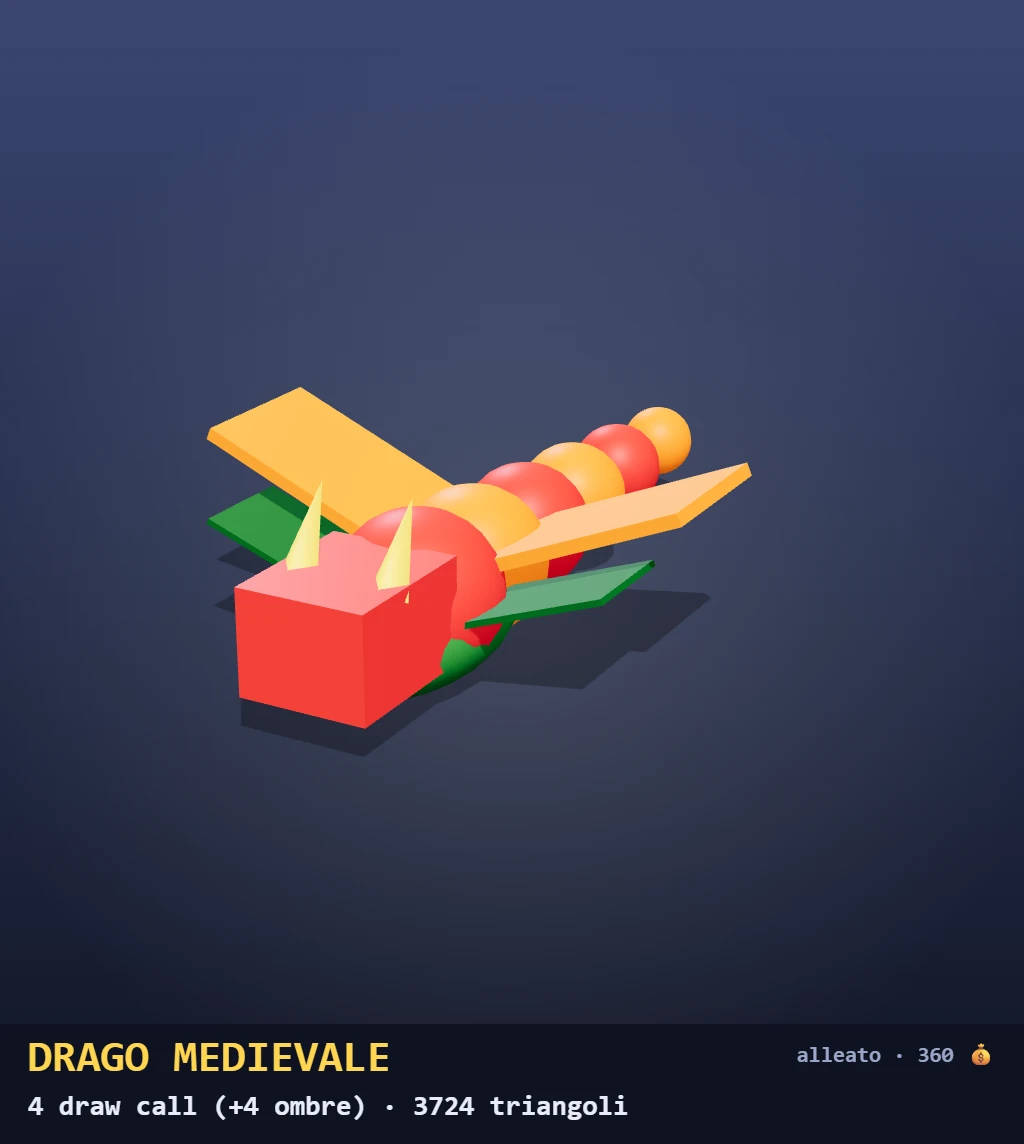
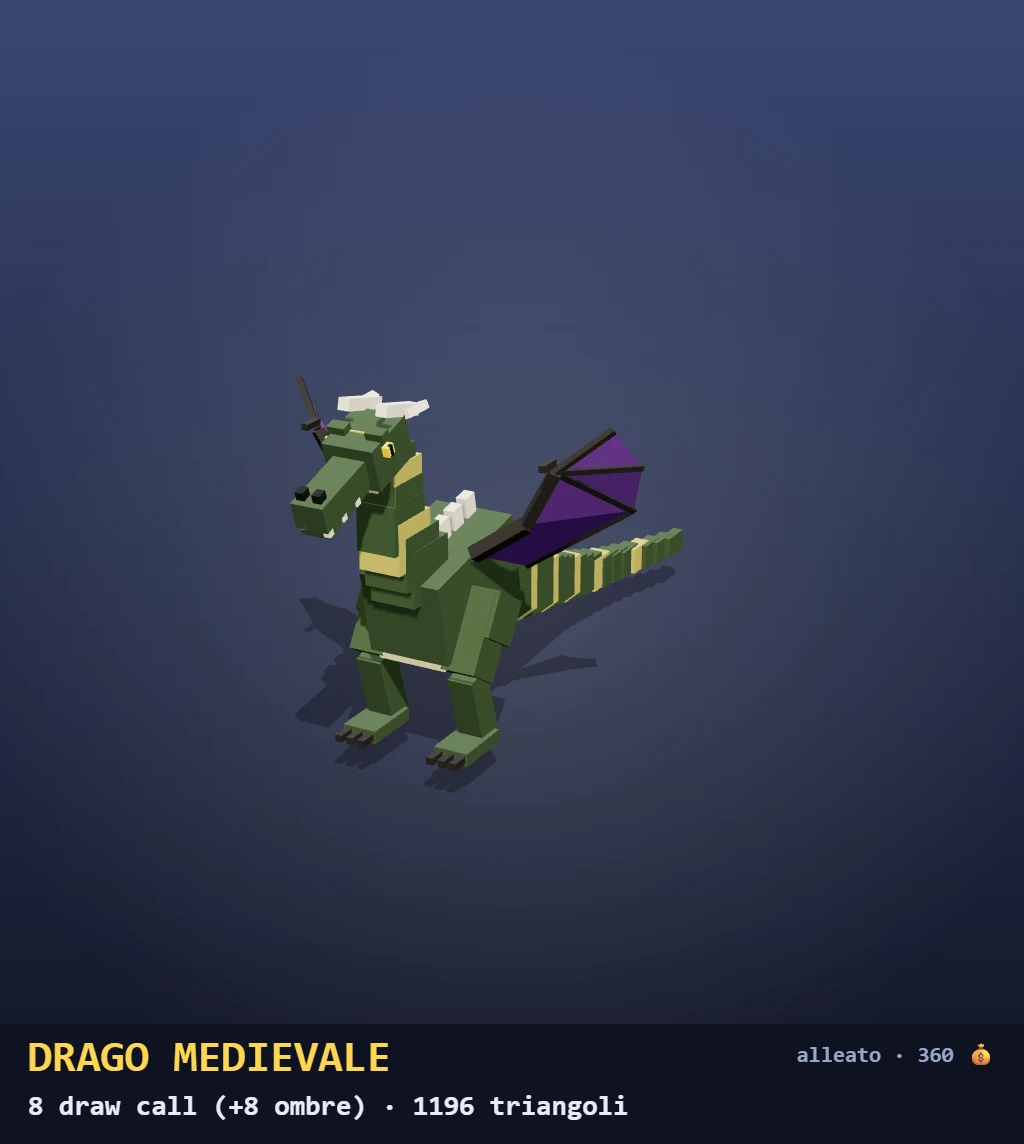
Difendi la birra: nuovo drago medievale a terra (dal bestiario), leggero: 8 draw call, fiato viola

diff --git a/index.html b/index.html
@@ -5308,12 +5308,13 @@ function allyUpdate(dt){ const host=!NETON();
           if(a.bq>0){ a.bT-=dt; if(a.bT<=0){ a.bT=.09; a.bq--; const b=spawn(K.shot,a.x+Math.sin(a.ang)*.5,a.z+Math.cos(a.ang)*.5,a.ang+(K.burst?(Math.random()-.5)*.1:0),a.owner); b.special=true; b.dk=mk_; SFX.play(K.burst?'pew':'throw'); } }
           if(K.melee&&d<K.range+tR(foe)&&a.cd<=0){ a.cd=K.melee[1]; spHit(a.owner,foe,K.melee[0]*mk_,{push:.4}); fxAdd(foe.x,foe.z,.5,0xffffff,.7,.15); SFX.play('punch'); }
           if(K.breath&&d<K.range+tR(foe)&&a.cd<=0){ a.cd=K.breath[1]; for(const t of spTargets(a.owner)){ const dx=t.x-a.x, dz=t.z-a.z, dd=Math.hypot(dx,dz); if(dd>K.range+tR(t)) continue; let da=Math.atan2(dx,dz)-a.ang; da=Math.atan2(Math.sin(da),Math.cos(da)); if(Math.abs(da)<.7) spHit(a.owner,t,K.breath[0]*mk_,{burn:1.5}); }
-            for(let q=1;q<=3;q++) fxAdd(a.x+Math.sin(a.ang)*q,a.z+Math.cos(a.ang)*q,.5+q*.15,0xff6d00,1.2,.25); SFX.play('flame'); }
+            a.brT=.7; for(let q=1;q<=3;q++) fxAdd(a.x+Math.sin(a.ang)*q,a.z+Math.cos(a.ang)*q,.55+q*.15,0xb55cff,.9,.25); SFX.play('flame'); }   // fiato viola del drago
           if(a.kind==='cobra'&&d<K.range&&a.cd<=0){ a.cd=K.cd; for(let k=-2;k<=2;k++){ const b=spawn('venom',a.x,a.z,a.ang+k*.16,a.owner); b.special=true; } SFX.play('hiss'); } }
         else if(Math.hypot(a.owner.x-a.x,a.owner.z-a.z)>2.5){ const dx=a.owner.x-a.x, dz=a.owner.z-a.z, d=Math.hypot(dx,dz); mx=dx/d; mz=dz/d; a.ang=Math.atan2(dx,dz); }
         if(mx||mz){ const st=K.spd*dt; if(K.fly){ a.x=Math.max(.5,Math.min(W-.5,a.x+mx*st)); a.z=Math.max(.5,Math.min(H-.5,a.z+mz*st)); } else [a.x,a.z]=slideMove(a.x,a.z,mx*st,mz*st,K.r); a.mv=1; } else a.mv=0; }
     else { a.x+=(a.tx-a.x)*Math.min(1,dt*12); a.z+=(a.tz-a.z)*Math.min(1,dt*12); }
-    a.m.position.set(a.x,a.kind==='cobra'?.4+Math.sin(a.t*3)*.15:a.mv||a.kind==='dog'?Math.abs(Math.sin(a.t*(a.kind==='dog'?18:9)))*.08:0,a.z); a.m.rotation.y=a.ang;
+    if(a.kind==='dragon') dragonAnim(a,dt);
+    a.m.position.set(a.x,a.kind==='cobra'?.4+Math.sin(a.t*3)*.15:a.kind==='dragon'?0:a.mv||a.kind==='dog'?Math.abs(Math.sin(a.t*(a.kind==='dog'?18:9)))*.08:0,a.z); a.m.rotation.y=a.ang;
     if(a.kind==='cobra'&&a.m.userData.b){ const B=a.m.userData.b; if(B.userData&&B.userData.P&&B.userData.P.wings) B.userData.P.wings.forEach((w,k)=>w.rotation.z=(k?1:-1)*Math.sin(a.t*12)*.5); } } }
 // Lino va verso la birra barcollando e la riempie (5 vita al secondo) finche' dura
 function linoTick(a,dt,host){ const c=TD.core, B=a.m.userData.b;
@@ -5663,7 +5664,7 @@ const BOT_K={
   knight:{n:'Cavaliere',d:'Armatura pesante e spadone: tiene la linea.',cost:120,k:'knight',n_:1},
   mafia:{n:'Mafiosi italo-americani',d:'Due picciotti col mitra a tamburo. Raffiche corte.',cost:170,k:'mafia',n_:2},
   wizard:{n:'Mago sul cinghiale',d:'Corre in giro sul suo cinghiale e lancia sfere magiche che esplodono.',cost:210,k:'wizard',n_:1},
-  dragon:{n:'Drago medievale',d:'Vola sopra a tutto e brucia i nemici col fiato. Costa caro.',cost:360,k:'dragon',n_:1},
+  dragon:{n:'Drago medievale',d:'Cammina a terra e brucia i nemici col fiato viola. Robusto, ma i nemici lo possono colpire. Costa caro.',cost:360,k:'dragon',n_:1},
   lino:{n:'Lino Sassanelli',d:'Ubriaco fradicio: va alla birra e la riempie di 5 vita al secondo per 60 secondi. I nemici lo possono colpire!',cost:200,k:'lino',n_:1},
 };
 // prezzo dei bot: +50% se chi compra ha gia' in campo, vivo, un bot dello stesso tipo (si conta per ogni tipo di bot, non sul totale)
@@ -5684,7 +5685,7 @@ Object.assign(ALLY_K,{
   knight:{hp:230,spd:2.6,r:.38,life:1e9,range:1.2,melee:[24,.9],mk:()=>knightMesh()},
   mafia:{hp:95,spd:2.8,r:.32,life:1e9,range:6,cd:1.3,burst:6,shot:'tommy',mk:()=>mafiaMesh()},
   wizard:{hp:160,spd:4.2,r:.42,life:1e9,range:6.5,cd:1.3,shot:'magic',mk:()=>wizardMesh()},
-  dragon:{hp:330,spd:3.2,r:.6,life:1e9,range:3,fly:1,breath:[12,.3],mk:()=>dragonMesh2()},
+  dragon:{hp:330,spd:3.2,r:.5,life:1e9,range:3,breath:[12,.3],mk:()=>dragonMesh2()},   // a terra: aggira i muri e i nemici lo possono colpire
   lino:{hp:160,spd:1.7,r:.34,life:60,range:0,heal:5,mk:()=>linoMesh()},
 });
 // --- modelli ---
@@ -5709,8 +5710,57 @@ function linoMesh(){ const g=new THREE.Group(), SK=0xe8b08a, B=new THREE.Group()
   [-1,1].forEach(s=>bx(B,0x111111,.05,.03,.02,s*.07,1.08,.125,.5)); bx(B,0x6d4c41,.12,.03,.02,0,.95,.125,.6);
   const bt=new THREE.Group(); bt.position.set(.3,.62,.12); B.add(bt); cy(bt,0x2e7d32,.06,.06,.26,0,0,0,.2); cy(bt,0x2e7d32,.025,.05,.12,0,.18,0,.2); bx(bt,0xfafafa,.125,.08,.125,0,-.02,0,.6);
   shadowize(g); g.scale.setScalar(1.15); return g; }
-function dragonMesh2(){ const g=new THREE.Group(), R=0x2e7d32; const d=makeDragon(); d.scale.setScalar(1.7); d.position.y=.3; g.add(d);
-  ell(g,R,.5,.35,.9,0,1.3,0,.6); [-1,1].forEach(s=>{ const w=bx(g,0x1b5e20,1.2,.04,.7,s*.8,1.6,-.1,.6); w.rotation.z=s*.35; }); shadowize(g); return g; }
+// Drago medievale (dal "Bestiario medievale"): cammina a terra (non vola), coda appiattita da varano, collo lungo, ali piccole da pipistrello, fiato viola.
+// Costruito a misura del file originale (unita' grandi) e rimpicciolito con DRG_S. Prestazioni: le parti ferme si fondono per gruppo
+// (corpo, 2 zampe, 2 ali, testa, mascella = una draw call ciascuno), collo e coda sono un'unica InstancedMesh di 33 cubi (una draw call). Niente luci.
+const DRG_S=.12, DRG_NN=9, DRG_TN=24, DRG_C={sk:0x3e4d2e,bl:0xcdbd8a,horn:0xd7ccb0,claw:0x2b2620,band:0xa89a4a,bone:0x2e2a25,mem:0x6a3f80};
+const DRG_NB=[[0,5.7,2],[0,7.2,3],[0,8.8,3.1],[0,9.9,3.9]];
+const DRG_IM=new THREE.MeshStandardMaterial({color:0xffffff,roughness:.8,metalness:.05});
+// membrana dell'ala: triangoli sulle due facce (cosi' si fonde col resto dell'ala, niente materiale a doppia faccia)
+const DRG_MEM=(()=>{ const V=(x,y,z)=>new THREE.Vector3(x,y,z), A=V(0,0,0),B=V(1.6,.9,-.4),C=V(2.8,2.6,-.2),F=[V(4.2,3.6,-1.2),V(4.4,2.2,-2.4),V(3.6,.6,-3.2)],H=V(.2,-1.2,-2.6);
+  const T=[C,F[0],F[1],C,F[1],F[2],C,F[2],B,B,F[2],H,B,H,A], pa=[]; T.forEach(v=>pa.push(v.x,v.y,v.z)); for(let i=T.length-3;i>=0;i-=3) [T[i],T[i+2],T[i+1]].forEach(v=>pa.push(v.x,v.y,v.z));
+  const g=new THREE.BufferGeometry(); g.setAttribute('position',new THREE.Float32BufferAttribute(pa,3)); g.computeVertexNormals(); return {g,A,B,C,F,H}; })();
+function dragonMesh2(){ const g=new THREE.Group(), d=new THREE.Group(), C=DRG_C, b=(p,c,w,h,dd,x,y,z)=>bx(p,c,w,h,dd,x,y,z,.8);
+  d.scale.setScalar(DRG_S); d.position.z=3*DRG_S; g.add(d);
+  const tg=new THREE.Group(); tg.position.set(0,4.6,.2); tg.rotation.x=.2; d.add(tg);
+  b(tg,C.sk,2.6,2.6,4.4,0,0,0); b(tg,C.bl,2.2,.5,4,0,-1.35,.1); for(let i=0;i<6;i++) b(tg,C.horn,.35,.9,.5,0,1.5,-1.8+i*.75);
+  // zampe: coscia, ginocchio e piede formano un pezzo unico (si muove solo dall'anca)
+  const legs=[-1,1].map(s=>{ const hp=new THREE.Group(); hp.position.set(s*1.55,4.5,.2); hp.rotation.x=-.55; d.add(hp);
+    b(hp,C.sk,1.1,2.5,1.3,0,-1.2,0); b(hp,C.sk,1.4,1.4,1.5,0,-.6,-.1);
+    const kn=new THREE.Group(); kn.userData.rigid=1; kn.position.y=-2.4; kn.rotation.x=.85; hp.add(kn); b(kn,C.sk,.8,2.3,.9,0,-1.1,0);
+    const ft=new THREE.Group(); ft.userData.rigid=1; ft.position.y=-2.2; ft.rotation.x=-.3; kn.add(ft); b(ft,C.sk,1.1,.4,1.9,0,-.1,.7); for(const c of [-.38,0,.38]) b(ft,C.claw,.22,.22,.8,c,-.1,1.8);
+    return hp; });
+  const M=DRG_MEM, wings=[-1,1].map(s=>{ const w=new THREE.Group(); w.position.set(s*1.4,5.9,.8); if(s<0) w.scale.x=-1; w.userData.s=s; d.add(w);
+    const bone=(p,q,th)=>{ const dv=new THREE.Vector3().subVectors(q,p), m=b(w,C.bone,th,th,dv.length(),0,0,0); m.position.copy(p).add(q).multiplyScalar(.5); m.quaternion.setFromUnitVectors(new THREE.Vector3(0,0,1),dv.normalize()); };
+    bone(M.A,M.B,.4); bone(M.B,M.C,.32); M.F.forEach(f=>bone(M.C,f,.18)); bone(M.F[2],M.H,.14);
+    w.add(new THREE.Mesh(M.g,cm(C.mem,.8))); b(w,C.claw,.2,.2,.7,M.C.x,M.C.y+.3,M.C.z+.4); return w; });
+  const head=new THREE.Group(); d.add(head);
+  b(head,C.sk,1.6,1.3,1.8,0,0,.2); b(head,C.sk,1,.8,2.4,0,-.1,2.1); b(head,C.bl,.8,.5,1.1,0,-.8,.2);
+  for(const s of [-1,1]){ b(head,0xf2c61f,.3,.3,.3,s*.85,.35,.5); b(head,0x111111,.1,.34,.1,s*.98,.35,.5); b(head,0x1a1a14,.25,.25,.3,s*.26,.46,3); b(head,C.horn,.2,.2,.2,s*.35,-.5,.9);
+    const h=b(head,C.horn,.35,.35,1.7,s*.6,.8,-.7); h.rotation.x=-.55; const h2=b(head,C.horn,.25,.25,1,s*.8,.5,-1.2); h2.rotation.set(-.3,0,s*.4); b(head,C.sk,.55,.25,.35,s*.6,.75,.45); }
+  for(let i=0;i<6;i++) b(head,C.horn,.2,.2,.2,i%2?.4:-.4,-.58,1.4+i*.35);
+  const jaw=new THREE.Group(); jaw.position.set(0,-.45,.2); head.add(jaw); b(jaw,C.sk,.9,.3,2.8,0,0,1.6); for(let i=0;i<5;i++) b(jaw,0xf0ead8,.15,.2,.15,i%2?.3:-.3,.2,1+i*.5);
+  // collo (9 cubi) + coda (24 cubi): una sola InstancedMesh, con le fasce chiare ogni tanto
+  const nt=dyn(new THREE.InstancedMesh(boxGeo,DRG_IM,DRG_NN+DRG_TN)), col=new THREE.Color(); nt.frustumCulled=false;
+  for(let i=0;i<DRG_NN;i++) nt.setColorAt(i,col.setHex(i%3===2?C.band:C.sk)); for(let i=0;i<DRG_TN;i++) nt.setColorAt(DRG_NN+i,col.setHex(i%4<1?C.band:C.sk)); d.add(nt);
+  g.userData.dr={d,tg,legs,wings,head,jaw,nt,nc:new THREE.CatmullRomCurve3(DRG_NB.map(v=>new THREE.Vector3(...v)))};
+  dragonPose(g.userData.dr,0,0,0); shadowize(g); return g; }
+const _dm=new THREE.Matrix4(), _dq=new THREE.Quaternion(), _dp=new THREE.Vector3(), _ds=new THREE.Vector3();
+// posa del drago: t = tempo, wk = quanto cammina (0-1), ff = quanto soffia (0-1)
+function dragonPose(U,t,wk,ff){
+  U.d.position.y=Math.sin(t*1.8)*.06*DRG_S+Math.abs(Math.sin(t*7))*.2*DRG_S*wk; U.d.rotation.z=Math.sin(t*7)*.04*wk; U.tg.rotation.x=.2-ff*.08;
+  U.legs.forEach((hp,k)=>{ hp.rotation.x=-.55+Math.sin(t*7+k*Math.PI)*.45*wk; });
+  U.nc.points.forEach((p,j)=>{ const v=DRG_NB[j]; p.set(v[0]+Math.sin(t*.8+j)*.2*j/3,v[1]+(j>1?ff*.5:0)+Math.sin(t*1.8+j)*.05,v[2]+(j>1?ff*.7:0)); });
+  for(let i=0;i<DRG_NN;i++){ const s=i/(DRG_NN-1), r=1.7-s*.65; U.nc.getPoint(s,_dp); U.nt.setMatrixAt(i,_dm.compose(_dp,_dq,_ds.set(r*.85,r,r*1.1))); }
+  U.nc.getPoint(1,_dp); U.head.position.copy(_dp); U.head.rotation.set(.32-ff*.55,Math.sin(t*.7)*.15,0); U.jaw.rotation.x=.06+ff*.5+Math.sin(t*2)*.01;
+  for(let i=0;i<DRG_TN;i++){ const s=(i+.5)/DRG_TN, w=1.3*(1-s*.85)+.15, h=1.9*(1-s*.78)+.25;
+    _dp.set(Math.sin(t*(1.3+wk)-s*3.5)*1.5*s,Math.max(h/2,.35+3.6*Math.pow(1-s,1.6)+Math.max(0,s-.7)*1.5),-1.8-s*13.5); U.nt.setMatrixAt(DRG_NN+i,_dm.compose(_dp,_dq,_ds.set(w,h,1.1))); }
+  U.nt.instanceMatrix.needsUpdate=true;
+  U.wings.forEach(w=>{ w.rotation.z=w.userData.s*(.1+Math.sin(t*2.2)*.1+ff*.3); });
+}
+function dragonAnim(a,dt){ const U=a.m.userData.dr; if(!U) return;
+  a.wk=(a.wk||0)+((a.mv?1:0)-(a.wk||0))*Math.min(1,dt*6); if(a.brT>0) a.brT-=dt;
+  a.ff=(a.ff||0)+((a.brT>0?1:0)-(a.ff||0))*Math.min(1,dt*10); dragonPose(U,a.t,a.wk,a.ff); }
 function buildMesh(kind,lvl){ const K=BUILD_K[kind], g=new THREE.Group();
   if(kind==='tur'||kind==='mount'){ const t=tdTurretMesh(kind==='mount'?2:1); g.add(t); g.userData.head=t.userData.head; g.userData.bar=t.userData.bar;
     if(kind==='mount'){ t.position.y=.55; cy(g,0x6d4c41,.6,.7,.55,0,.27,0,.9); bx(g,0x8d6e63,.12,.55,.12,.45,.27,.45,.9); bx(g,0x8d6e63,.12,.55,.12,-.45,.27,-.45,.9); for(let k=0;k<4;k++) bx(g,0x5d4037,.32,.05,.06,.62,.1+k*.14,0,.9); g.userData.bar.position.y=2; } }

diff --git a/Grafiche/README.md b/Grafiche/README.md
@@ -69,7 +69,7 @@ Le misure sono per un singolo modello: i polli arrivano in 4 e i mafiosi in 2.
 | <img src="Acquistabili/cavaliere.webp" width="120"> | **Cavaliere** | Alleato | 4 | 4 | 120 |
 | <img src="Acquistabili/mafiosi-italo-americani.webp" width="120"> | **Mafiosi italo-americani** | Alleato (×2) | 4 | 4 | 184 |
 | <img src="Acquistabili/mago-sul-cinghiale.webp" width="120"> | **Mago sul cinghiale** | Alleato | 7 | 7 | 1148 |
-| <img src="Acquistabili/drago-medievale.webp" width="120"> | **Drago medievale** | Alleato | 4 | 4 | 3724 |
+| <img src="Acquistabili/drago-medievale.webp" width="120"> | **Drago medievale** | Alleato | 8 | 8 | 1196 |
 | <img src="Acquistabili/lino-sassanelli.webp" width="120"> | **Lino Sassanelli** | Alleato | 8 | 8 | 556 |
 | <img src="Acquistabili/torretta.webp" width="120"> | **Torretta** | Costruzione | 4 | 4 | 220 |
 | <img src="Acquistabili/torretta-con-postazione.webp" width="120"> | **Torretta con postazione** | Costruzione | 5 | 5 | 420 |
@@ -82,7 +82,7 @@ Le misure sono per un singolo modello: i polli arrivano in 4 e i mafiosi in 2.
 | Render | Nome | Tipo · misure | Draw call | + ombre | Triangoli |
 |---|---|---|---:|---:|---:|
 | <img src="Mappe/il-bilocale.webp" width="220"> | **IL BILOCALE** | normale · 30×20 m | 82 | 77 | 41.732 |
-| <img src="Mappe/eta-della-pietra.webp" width="220"> | **ETÀ DELLA PIETRA** | normale · 30×20 m | 125 | 108 | 55.553 |
+| <img src="Mappe/eta-della-pietra.webp" width="220"> | **ETÀ DELLA PIETRA** | normale · 30×20 m | 122 | 105 | 56.921 |
 | <img src="Mappe/pianeta-xeno.webp" width="220"> | **PIANETA XENO** | normale · 30×20 m | 66 | 51 | 56.518 |
 | <img src="Mappe/arrembaggio.webp" width="220"> | **ARREMBAGGIO** | normale · 30×20 m | 56 | 53 | 25.368 |
 | <img src="Mappe/parco-aurora.webp" width="220"> | **PARCO AURORA** | normale · 30×20 m | 67 | 61 | 32.068 |
@@ -99,4 +99,4 @@ Le misure sono per un singolo modello: i polli arrivano in 4 e i mafiosi in 2.
 | <img src="Mappe/morioh-cho.webp" width="220"> | **MORIOH-CHO** | gigante · 76×34 m | 160 | 154 | 66.058 |
 | <img src="Mappe/villaggio-amazzonico.webp" width="220"> | **VILLAGGIO AMAZZONICO** | solo Basket · 30×20 m | 99 | 35 | 33.864 |
 | <img src="Mappe/spiaggia-tropicale.webp" width="220"> | **SPIAGGIA TROPICALE** | solo Basket · 30×20 m | 93 | 36 | 21.218 |
-| <img src="Mappe/stadio-tony-sport.webp" width="220"> | **STADIO TONY SPORT** | solo Basket · 30×20 m | 112 | 54 | 24.278 |
+| <img src="Mappe/stadio-tony-sport.webp" width="220"> | **STADIO TONY SPORT** | solo Basket · 30×20 m | 112 | 54 | 24.646 |

diff --git a/PROGETTO.md b/PROGETTO.md
@@ -184,7 +184,7 @@ Ci si ferma sul tappeto rosa davanti al negozio. Le monete arrivano dalle uccisi
 | Cavaliere | 120 | Armatura pesante e spadone: tiene la linea. |
 | Mafiosi italo-americani | 170 | Due picciotti col mitra a tamburo. Raffiche corte. |
 | Mago sul cinghiale | 210 | Corre in giro sul suo cinghiale e lancia sfere magiche che esplodono. |
-| Drago medievale | 360 | Vola sopra a tutto e brucia i nemici col fiato. Costa caro. |
+| Drago medievale | 360 | Cammina a terra (non vola) e brucia i nemici col fiato viola. Robusto, ma i nemici lo possono colpire. Costa caro. |
 | Lino Sassanelli | 200 | Ubriaco fradicio: va alla birra e la riempie di 5 vita al secondo per 60 secondi. I nemici lo possono colpire! |
 
 **Potenziamenti** (fino a 5 livelli ciascuno):
@@ -261,6 +261,7 @@ Controllati il codice e tutta la storia git: **non ci sono chiavi API né passwo
 ### Ultime modifiche
 - **Basket:** dopo ogni canestro tutte e due le squadre ripartono dal proprio canestro; la palla va alla squadra che ha subito.
 - **Azzone:** 6 pallettoni invece di 3, più ravvicinati, sempre nel cono di 30°, da 16 di danno l’uno (prima 20).
+- **Difendi la birra:** nuovo Drago medievale (dal bestiario): coda da varano, collo lungo e ali piccole, fiato viola. Non vola più: cammina a terra, aggira i muri e i nemici lo possono colpire.
 - **Sopravvivenza:** nella casella del giocatore si vedono solo gli aumenti totali di danno 💥, velocità 👟 e portata 🎯 presi alla slot, anche sul telefono (lì in piccolo, solo icona e percentuale).
 - **L’Atleta:** attacca più in fretta (ricarica da 0,8 a 0,55 s) e il selfie ha un raggio più largo (da 3,2 a 4,5).
 - **Rete:** tasto per chiudere la stanza (host) o uscirne (guest) e tornare al menu principale.
